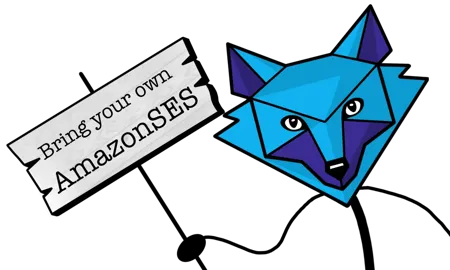
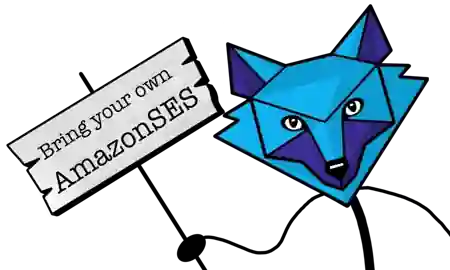
More optimization related stuff

diff --git a/.vitepress/theme/index.js b/.vitepress/theme/index.js
@@ -32,7 +32,7 @@ import {
   VTextField
 } from 'vuetify/components'
 
-import * as directives from 'vuetify/directives'
+import { Ripple } from 'vuetify/directives'
 
 import '@fontsource/amatic-sc/400.css'
 import '@fontsource/amatic-sc/700.css'
@@ -97,7 +97,9 @@ export default {
         VSpacer,
         VTextField
       },
-      directives,
+      directives: {
+        Ripple
+      },
       theme: {
         themes: {
           light: {

diff --git a/.vitepress/theme/style.css b/.vitepress/theme/style.css
@@ -21,6 +21,14 @@ html {
  * Colors
  * -------------------------------------------------------------------------- */
 
+@font-face {
+  font-family: "Material Design Icons";
+  src: url("/fonts/materialdesignicons-webfont.woff2") format("woff2");
+  font-weight: normal;
+  font-style: normal;
+  font-display: swap;
+}
+
  :root {
   --vp-c-brand:hsl(197, 87%, 50%);
   --vp-c-brand-light:	hsl(197, 87%, 60%);

diff --git a/.vitepress/theme/HeroUnit.vue b/.vitepress/theme/HeroUnit.vue
@@ -35,6 +35,8 @@ const { isDark } = useData()
         class="cornerImage"
         fetchpriority="high"
         loading="eager"
+        width="242"
+        height="145"
       />
   </div>
 </template>
